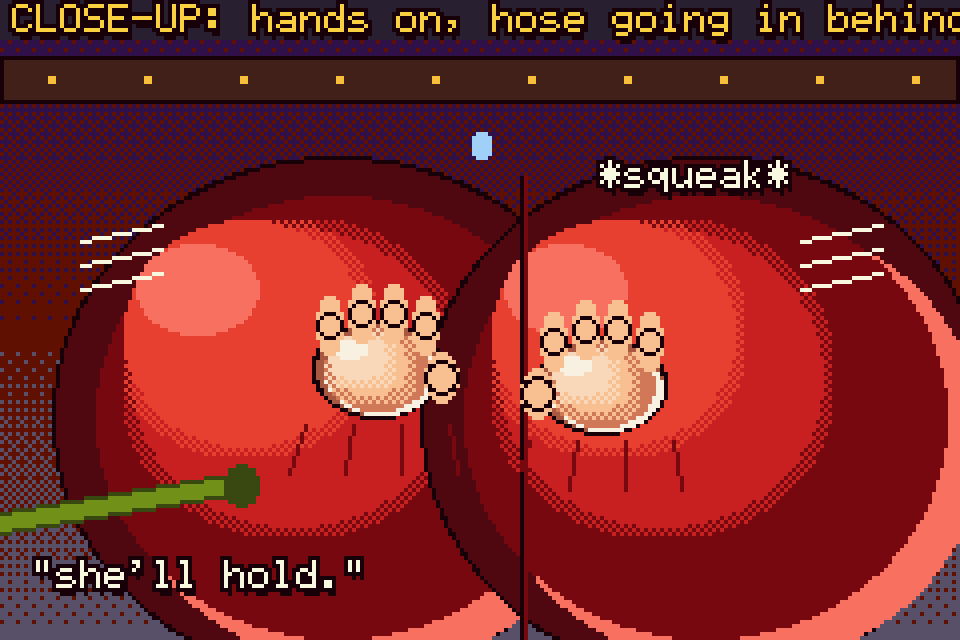
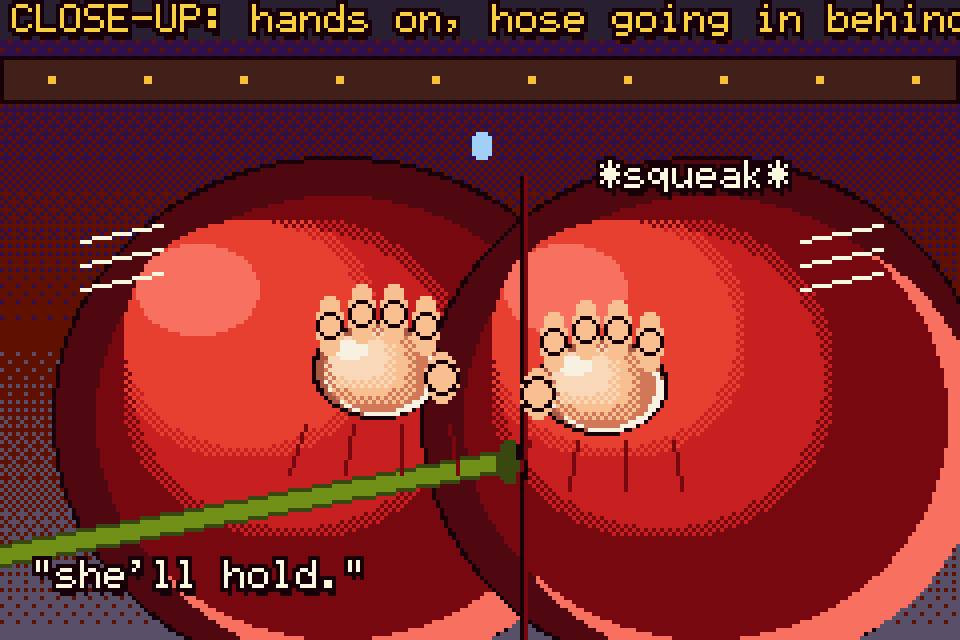
Grumbleguts close-up: hose goes in at the cleft
Claude-Session: https://claude.ai/code/session_01RLcGbHBa2kju7ynbaJLHT6

Changed region(s): [[0.0, 0.6875, 0.5625, 0.9062]]

diff --git a/trailer/concept/grumbleguts.c b/trailer/concept/grumbleguts.c
@@ -489,9 +489,12 @@ static void storyboard(const char *out) {
     blob(84, 104, 70, 64, SKINM);
     blob(176, 104, 70, 64, SKINM);
     tk_line(130, 44, 130, 160, LINE); tk_line(131, 44, 131, 160, SKINM[1]);             /* cleft */
-    /* the hose disappears behind the near cheek (nothing anatomical shown) */
-    for (int i = 0; i < 6; i++) { tk_line(0, 128 + i, 60, 118 + i, PAL_RAMP(RAMP_SICK, 4 - (i == 0 || i == 5 ? 2 : 0))); }
-    tk_ellipse(60, 121, 4, 5, PAL_RAMP(RAMP_SICK, 2));
+    /* the hose runs across the near cheek and goes in at the cleft (the crease
+     * is redrawn over its tip, so it simply vanishes into the line) */
+    for (int i = 0; i < 6; i++) tk_line(0, 136 + i, 128, 112 + i, PAL_RAMP(RAMP_SICK, 4 - (i == 0 || i == 5 ? 2 : 0)));
+    tk_ellipse(127, 115, 3, 5, PAL_RAMP(RAMP_SICK, 2));
+    tk_line(130, 44, 130, 160, LINE); tk_line(131, 44, 131, 160, SKINM[1]);
+    for (int i = -4; i <= 4; i++) tk_px(130 + (i < 0 ? -1 : 1), 115 + i, LINE);        /* crease pinches round the hose */
     /* the culprit's two hands braced on the cheeks, cheeks squashing under them */
     for (int h = 0; h < 2; h++) {
         int hx = h ? 150 : 94, hy = h ? 96 : 92;
